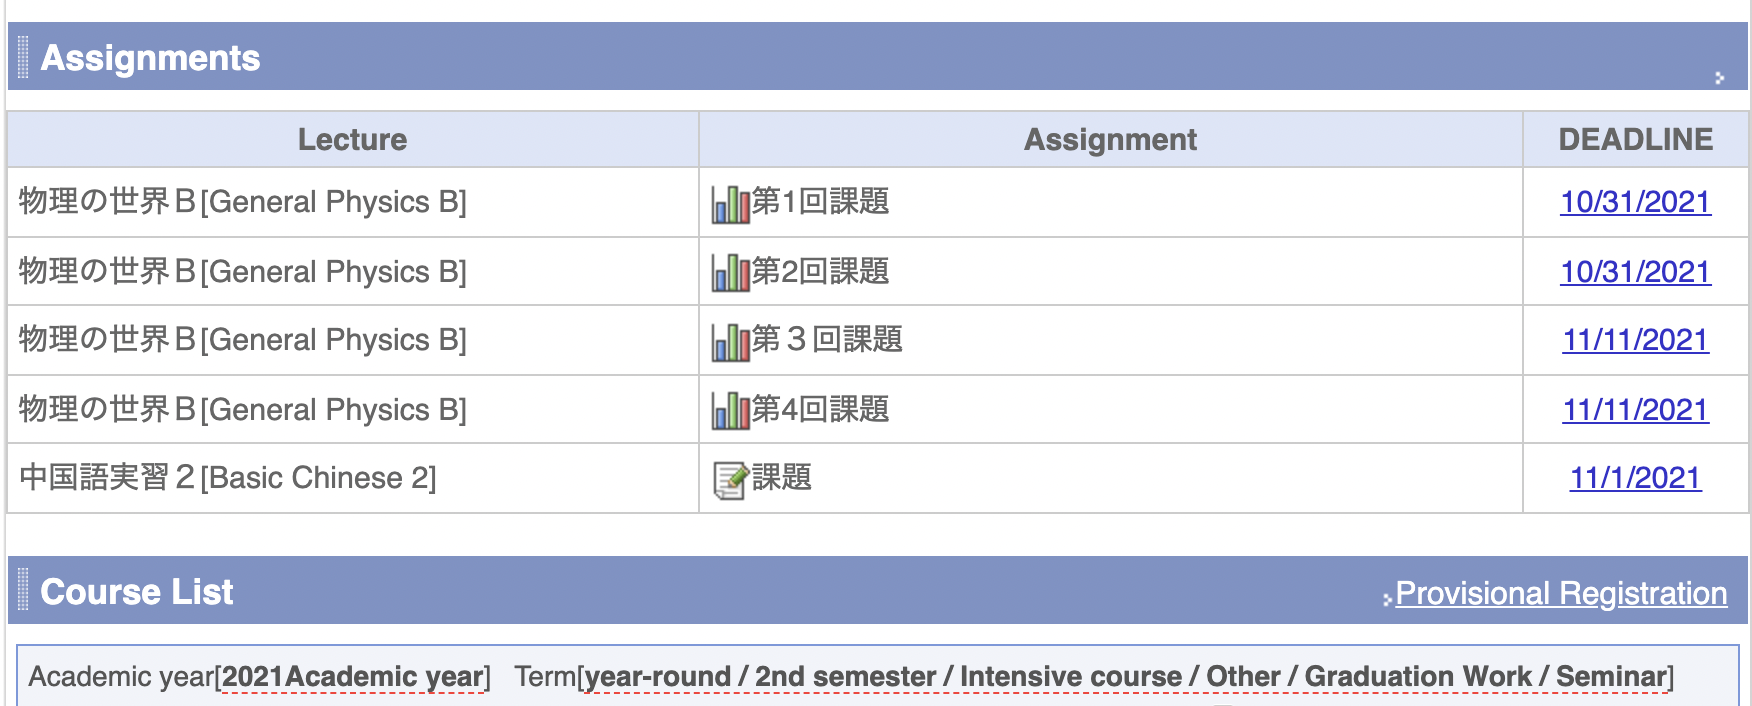
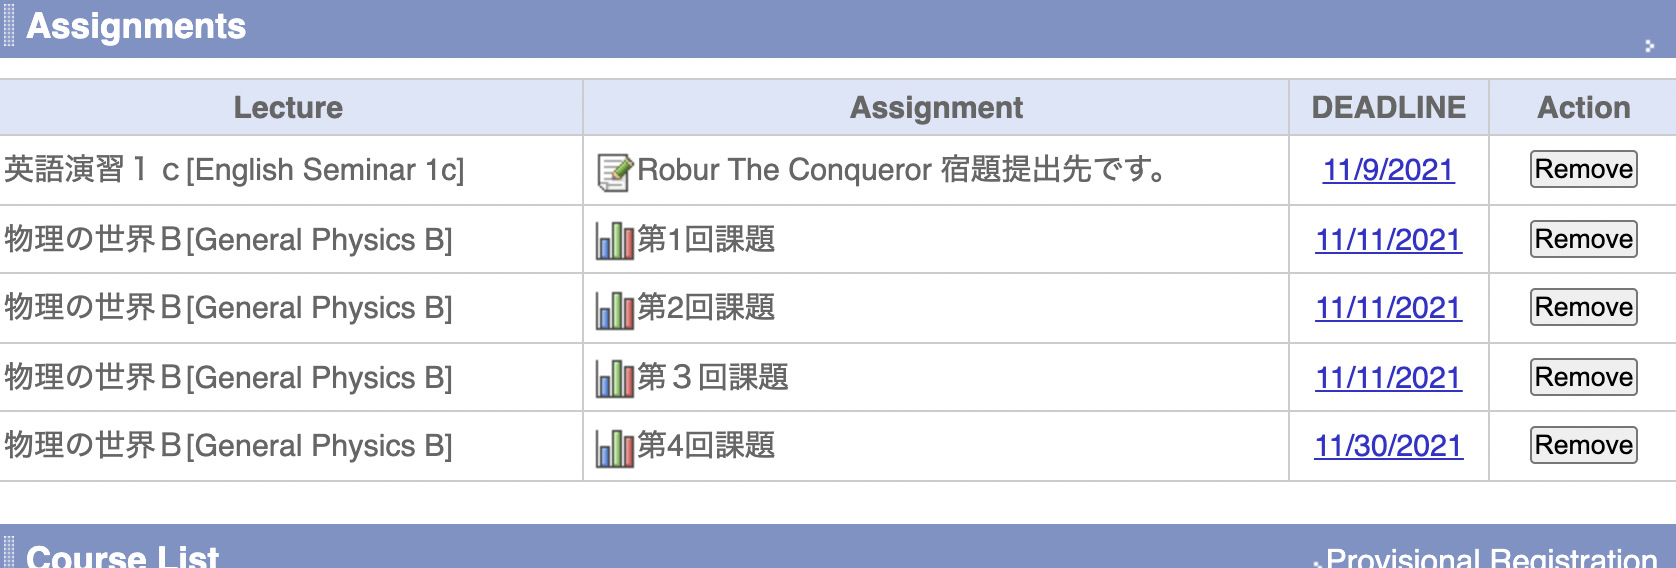
moved to chrome storage and add delete function

diff --git a/src/fetch_homework_storage.js b/src/fetch_homework_storage.js
@@ -1,0 +1,109 @@
+// fetch_homework_storage.js
+// Fetch homework to submit or resubmit
+
+// Connect to DB
+// const dbName = "HomeworkDB"
+// var db = new Dexie(dbName)
+// db.version(1).stores({hw_store: "ID, subject, name, due"})
+var homework_list = []
+
+
+var LANGUAGE = document.querySelector("#langList > option[selected]").textContent
+console.log(LANGUAGE)
+
+// Select the specified subject's name from "[HOME] > subject_name_ja[subject_name_en][subject_id]"
+var subject_name = document.querySelector("#cs_loginInfo_left ul li:not(#home)").textContent.match(/(\>\s)(.*)(\[.*\])/)[2] // subject_name_ja[subject_name_en]
+var homework_date = document.querySelectorAll("tbody > tr > td.td03")
+
+for (let i = 0; i < homework_date.length; i++) {
+    var regex
+    var available_txt
+    if (LANGUAGE == "English") {
+        regex = /(Submission Due on|Resubmission deadline|Response Due on):(.*)/
+        available_txt = 'Available'
+    }
+    else if (LANGUAGE == "日本語") {
+        regex = /(提出期限|再提出期限|未回答):(.*)/
+        available_txt = '公開中'
+    }
+
+    var is_due = homework_date[i].textContent.match(regex);
+    var is_available = homework_date[i].parentElement.querySelector("td.td02").textContent.trim() == available_txt
+    if (is_due && is_available) {
+
+        var due_date = is_due[2]
+        var homework = new Map()
+        var homework_id = homework_date[i].parentElement.querySelector("td.td01").id
+        var homework_name = homework_date[i].parentElement.querySelector("td.td01").textContent.trim()
+
+        homework.set("ID", homework_id)
+        homework.set("Subject", subject_name)
+        homework.set("Name", homework_name)
+        homework.set("Due", new Date(due_date))
+        homework_list.push(homework)
+    }
+}
+
+var banner = `
+<div id=\"title\">
+<h2>Assignments for This Lecture<span>
+<img src=\"/lms/img/cs/yazi3.gif\">
+</h2></div>
+`
+
+
+var table_header = `
+<div id="list_block">
+<table border="0" cellpadding="0" cellspacing="0" class="cs_table2">
+  <tbody><tr>
+    <th width="37%">Assignment</th>
+    <th width="10%">DEADLINE</th>
+  </tr>
+`
+
+var table_footer = `
+</tbody></table>
+<div class="cs_flmenuvox clearfix">
+</div>
+
+</div>
+`
+
+var content = ''
+if (homework_list.length) {
+    console.log(homework_list)
+    homework_list.forEach(homework => {
+        const icon = (hw_type) => {
+            if (hw_type == "REP") {
+                return "https://lms.ynu.ac.jp/lms/img/cs/icon2b.gif"
+            }
+            else if (hw_type == "ANK") {
+                return "https://lms.ynu.ac.jp/lms/img/cs/icon7b.gif"
+            }
+            else {
+                return "https://lms.ynu.ac.jp/lms/img/cs/icon5b.gif"
+            }
+        }
+        content += `
+        <tr>
+            <td><img src="${icon(homework.get("ID").substring(0, 3))}" alt="Report">
+            <a href="javascript:void(0)" onclick="kyozaiTitleLink('${homework.get("ID")}','02')">${homework.get("Name")}</a>
+            </td>
+            <td align="center">${homework.get("Due").toLocaleDateString()}</a></td>
+        </tr>
+        `
+
+        // db.hw_store.put({
+        //     ID: homework.get("ID"),
+        //     Name: homework.get("Name"),
+        //     Subject: homework.get("Subject"),
+        //     Due: homework.get("Due")
+        // })
+        var keypair = {}
+        keypair[homework.get('ID')] = [homework.get("Subject"), homework.get("Name"), homework.get("Due").toJSON()]
+        chrome.storage.sync.set(keypair)
+    })
+}
+
+var target = document.querySelector('div#main')
+target.innerHTML = banner + table_header + content + table_footer + target.innerHTML

diff --git a/src/show_homework_storage.js b/src/show_homework_storage.js
@@ -1,0 +1,116 @@
+const SUBJECT = 0
+const NAME = 1
+const DUE = 2
+
+
+var target = document.querySelector('div#main')
+var banner = `
+<div id=\"title\">
+<h2>Assignments<span>
+<img src=\"/lms/img/cs/yazi3.gif\">
+</h2></div>
+`
+
+var table_header = `
+<div id="list_block">
+<table border="0" cellpadding="0" cellspacing="0" class="cs_table2">
+  <tbody><tr>
+    <th width="31%">Lecture</th>
+    <th width="37%">Assignment</th>
+    <th width="10%">DEADLINE</th>
+    <th width="10%">Action</th>
+  </tr>
+`
+
+var table_footer = `
+<script>
+</script>
+</tbody></table>
+<div class="cs_flmenuvox clearfix">
+</div>
+</div>
+`
+
+var btn_function = `
+    function remove_btn_clicked(event) {
+        console.log(event.target.eventParam)
+    };
+
+    document.getElementsByName('remove_btn').forEach(btn => {
+        btn.eventParam = btn.getAttribute('hw_id');
+        btn.addEventListener('click', remove_btn_clicked);
+    });
+`
+
+
+// async function OpenDB() {
+//     const dbName = "HomeworkDB"
+//     var db = await new Dexie(dbName).open();
+//     return db
+// }
+
+function getNowYMDStr(date){
+    const Y = date.getFullYear()
+    const M = ("00" + (date.getMonth()+1)).slice(-2)
+    const D = ("00" + date.getDate()).slice(-2)
+  
+    return Y + M + D
+  }
+
+
+function QueryData() {
+    var content = ''
+    chrome.storage.sync.get(null, (items) => {
+        var sorted_items = Object.entries(items)
+            .map((hw) => {return {hw:hw, due:hw[1][DUE]}})
+            .sort((a, b) => new Date(a.due) - new Date(b.due))
+            .map((obj) => obj.hw)
+        sorted_items.forEach((item) => {
+            var id = item[0]
+            var subject = item[1][SUBJECT]
+            var name = item[1][NAME]
+            var due = new Date(item[1][DUE])
+            const icon = (hw_type) => {
+                if(hw_type == "REP") {
+                    return "https://lms.ynu.ac.jp/lms/img/cs/icon2b.gif"
+                }
+                else if(hw_type == "ANK") {
+                    return "https://lms.ynu.ac.jp/lms/img/cs/icon7b.gif"
+                }
+                else {
+                    return "https://lms.ynu.ac.jp/lms/img/cs/icon5b.gif"
+                }
+            }
+            content += `
+            <tr>
+            <td rowspan="1">${subject}</td>
+            <td><img src="${icon(id.substring(0, 3))}" alt="Report">${name}</td>
+            <td align="center">
+                <a href="https://calendar.google.com/calendar/render?action=TEMPLATE&text=${subject + " Assignment"}&details=${name}&dates=${getNowYMDStr(due)}/${getNowYMDStr(new Date(due.getTime() + 86400000))}" target="_blank" rel="noopener noreferrer">
+                    ${due.toLocaleDateString()}
+                </a>
+            </td>
+            <td align="center"><input type="button" name="doneButton" id="${id}" value="Remove">
+            </tr>
+            `
+        })
+        target.innerHTML =
+             banner + table_header + content + table_footer + target.innerHTML 
+        var doneButtons = document.getElementsByName("doneButton")
+        doneButtons.forEach(btn => {
+            console.log(btn)
+            btn.addEventListener('click', () => {
+                chrome.storage.sync.remove([btn.id], () => {
+                    btn.parentElement.innerHTML = '<p>Well Done!</p>'
+                })
+            })
+            
+        });
+    })
+
+}
+
+QueryData()
+
+
+

diff --git a/webpack.common.js b/webpack.common.js
@@ -3,8 +3,10 @@ const CopyPlugin = require("copy-webpack-plugin");
 
 module.exports = {
   entry: {
-    fetch_homework: './src/fetch_homework.js',
-    show_homework: './src/show_homework.js',
+    // fetch_homework: './src/fetch_homework.js',
+    // show_homework: './src/show_homework.js',
+    fetch_homework_storage: './src/fetch_homework_storage.js',
+    show_homework_storage: './src/show_homework_storage.js',
     background: './src/background.js',
   },
   plugins: [

diff --git a/README.md b/README.md
@@ -2,8 +2,10 @@
 
 未提出（再提出）の課題をトップページで簡単に確認できるようにする Chrome用拡張機能です。 
   
-DOM操作(データ取得)は講義ページに手動でアクセスした時のみなので、サーバーに大きな負荷をかけることなく課題管理が可能です。
-
+DOM操作(データ取得)は講義ページに手動でアクセスした時のみなので、サーバーに大きな負荷をかけることなく課題管理が可能です。  
+  
+クソデカ未提出とも共存可能です。  
+  
 ## インストール方法
 Releasesにあるzipファイルをダウンロード&展開後  
 https://reviews.f-tools.net/Add-On/Jisaku-Tuika.html  
@@ -11,18 +13,15 @@ https://reviews.f-tools.net/Add-On/Jisaku-Tuika.html
   
 ## 使用方法
 講義ページを開くと、以下のように未提出または未回答の課題が表示されます。  
-この時、課題の情報がブラウザ内のデータベース(IndexedDB)に保存されます。  
+この時、課題の情報がブラウザ内に保存されます。
 ![lecture page](images/photo_00.png)
   
 そして、そのデータベースの情報をもとに、LMSのトップページで課題一覧が表示されます。  
+追加された情報はRemoveボタンを押すと削除できます。  
 また、DEADLINEのリンクにアクセスすると、
 ![toppage](images/photo_01.png)
 以下のようにGoogle カレンダーへの追加もできます
 ![googlecalendar](images/photo_02.png)
-
-### 課題の消し方
-データベース上のデータを消す機能はまだ未実装なので、F12→Application→IndexedDB→HomeworkDB→hw_store から手動で削除してください。もっと楽にできるようにしたい。
-![remove](images/photo_03.png)
 
 ## サーバー負荷について
 DOM操作(データ取得)はあくまで**講義ページを手動で開いたときのみ**なので、サーバー負荷は一般の利用時と変わらないと推測されます。
